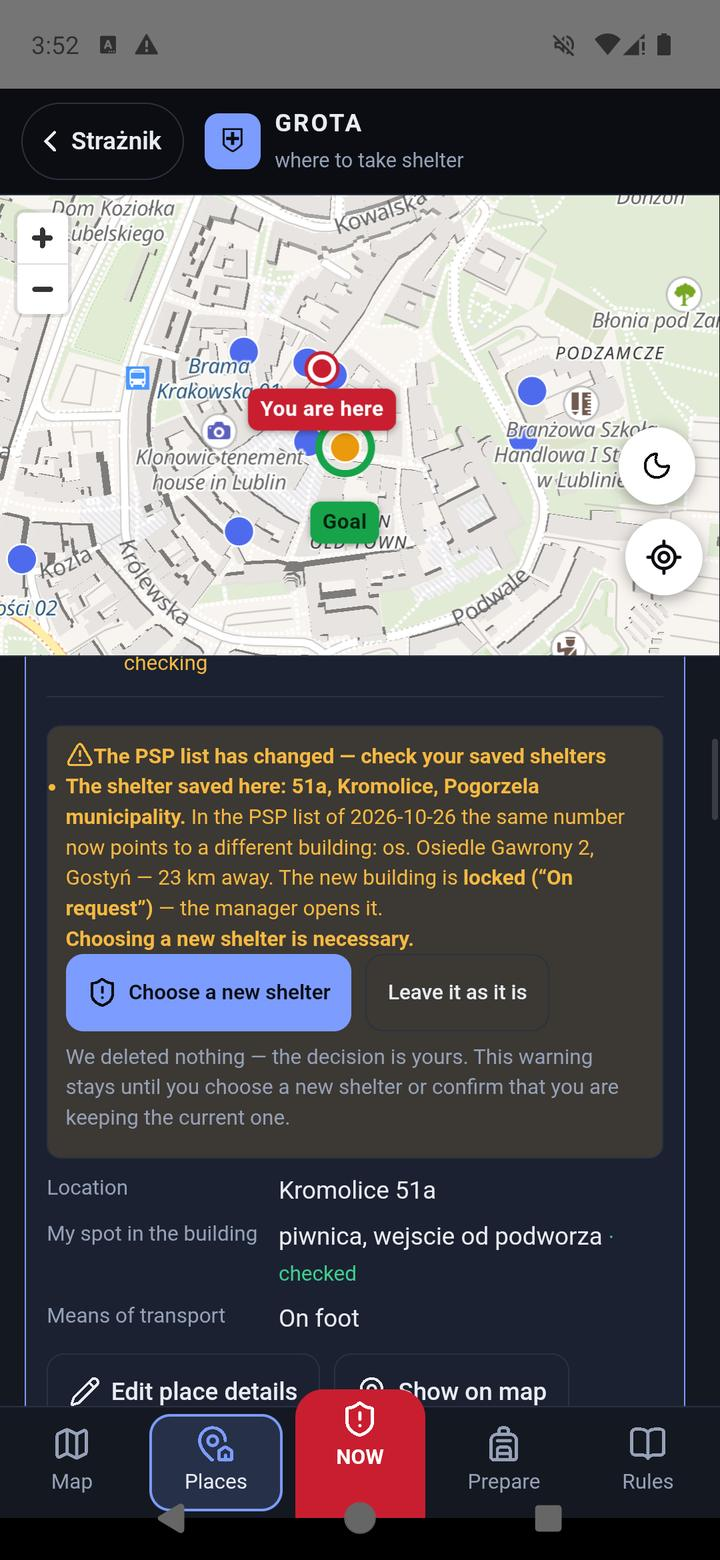
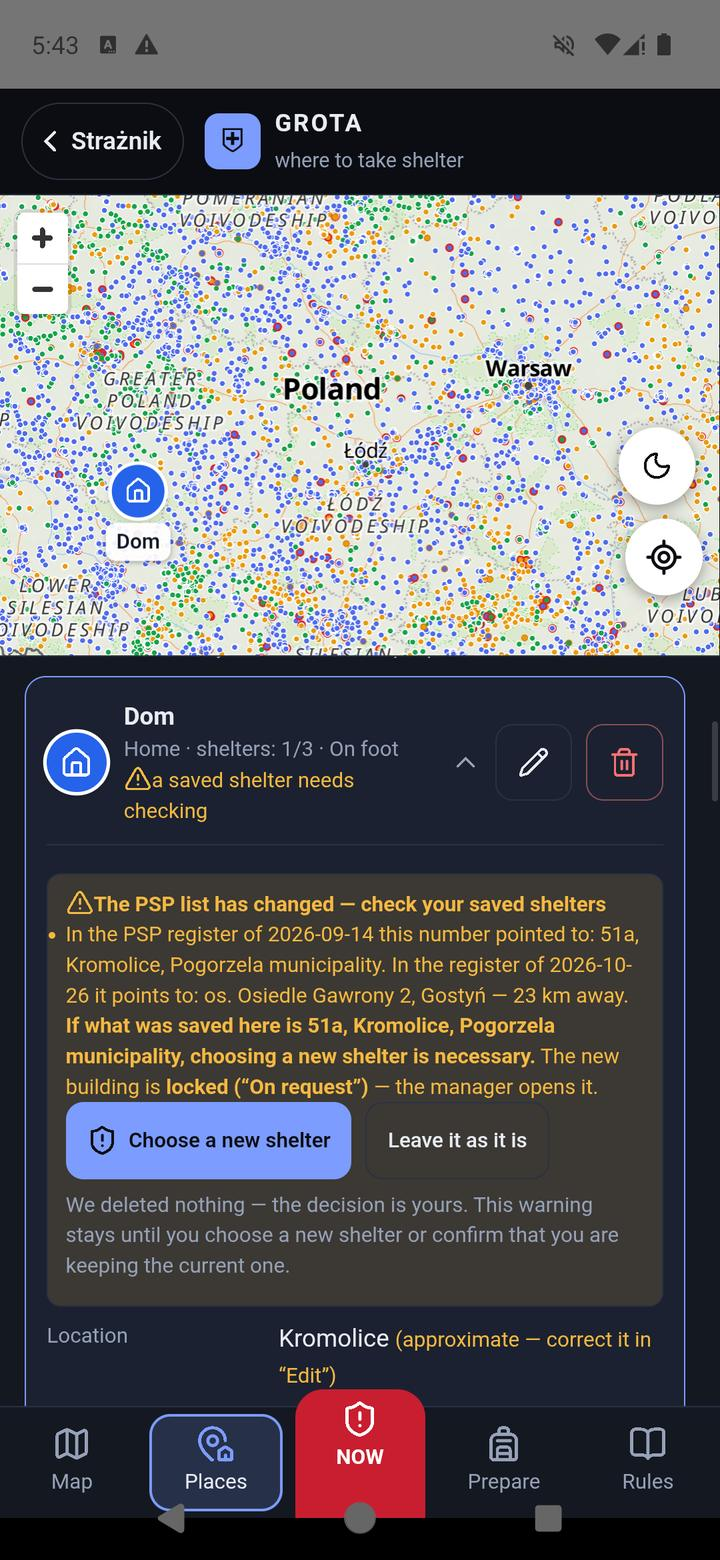
Instrukcja GROTY: ostrzezenie o zmianie wykazu z wydanego 1.8.02
g31-zmiana-wykazu* (PL, -en, -uk) zrobione z PODPISANEGO APK wydania
Straznik-1.8.02-131.apk (sha256 0d9769aa..., modul f48f4eb0c6) na emulatorze
Pixel 7 z Androidem 14, wm size 1080x2340, zmniejszone do 720x1560 JPEG.
Nic nie retuszowane.

Stan NIE byl wstrzykiwany - wydanie ma wylaczone debugowanie WebView, wiec nie
ma czym. Przeszedlem droge, ktora przechodzi czlowiek: czysta instalacja 1.8.00
(129), dodane miejsce "Dom" w Kromolicach przez wyszukiwarke adresow, zaznaczone
schronienie "51a, Kromolice" (221 m, w tamtym wykazie calodobowe), potem
adb install -r wydania 1.8.02, ktore zachowuje dane. Ostrzezenie pojawilo sie
samo. Wszystko w nim - stary adres, nowy, 23 km, zamkniecie "Na zadanie" i OBIE
daty - policzyla aplikacja z dwoch paczek.

Zrzuty pokazuja wariant WARUNKOWY ("jesli zapisano tu ..."), bo tak aplikacja
mowi, gdy nie wie, z ktorego wykazu pochodzi zapis - czyli kazdemu, kto
aktualizuje sie z wydania starszego niz 1.8.01. Wariant kategoryczny usuniety
bez zastepnika: wymaga zapisu z data starsza niz zmiana, a 1.8.01 jest pierwsza
wersja, ktora te date notuje, i wyszla z wykazem z 26.10 - zmierzone na wydanej
paczce: zapis z 1.8.01 nie daje ostrzezenia dla ZADNEGO z 76 przeniesien, zapis
bez daty daje warunkowe dla wszystkich 76. Kategoryczny stanie sie przypadkiem
normalnym dopiero przy nastepnym wykazie PSP i wtedy dorobie zrzut.

Rozdzial "Gdy zmieni sie wykaz PSP" dostal akapit o tej roznicy, w trzech
[…]

diff --git a/docs/grota-uk.html b/docs/grota-uk.html
@@ -25,11 +25,11 @@
   <div class="languages" aria-label="Мова посібника"><a href="grota.html" lang="pl" hreflang="pl">PL</a><a href="grota-en.html" lang="en" hreflang="en">EN</a><a href="grota-uk.html" lang="uk" aria-current="page">UA</a></div>
 </div></nav>
 <header class="hero"><div class="wrap hero-grid">
-<div><div class="eyebrow">Посібник GROTA · Strażnik 1.7.72 для Android</div>
+<div><div class="eyebrow">Посібник GROTA · Strażnik 1.8.02 для Android</div>
     <h1>GROTA — де сховатися</h1>
     <p class="lead">GROTA — частина застосунку Strażnik («Вартовий»). Під час повітряної тривоги вона показує <b>найближчі місця укриття</b> з публічного переліку Державної пожежної служби Польщі (PSP) і веде до них. Заздалегідь допомагає зберегти укриття біля дому, роботи й школи, завантажити мапу на випадок відсутності інтернету та підготуватися за польським урядовим «Порадником безпеки».</p>
     <div class="actions"><a class="button primary" href="https://play.google.com/store/apps/details?id=pl.straznik.app">↓ Strażnik у Google Play</a><a class="button" href="https://github.com/cukierrro/Straznik/releases/latest/download/Straznik.apk">↓ Завантажити Strażnik для Android</a><a class="button" href="en.html">Посібник Strażnik (англійською)</a></div>
-    <p class="fineprint">З версії 1.7.72 GROTA працює <b>українською</b>, англійською та польською (розділ 8). Сам Strażnik (поза GROTA) має польську й англійську мови, тому його кнопки подаємо польською, а в дужках — англійською. Знімки: 22 вересня 2026, емулятор, позиція в Старому місті Любліна; списки підготовки і вкладку Правила перезняли 26 вересня 2026 у випуску 1.7.80, мапу й фільтри — 19 жовтня 2026 у випуску 1.7.99, а фільтри, дату переліку PSP і два нові екрани (зміна переліку, пошук без інтернету) — 26 жовтня 2026; адреси з переліку PSP залишаються польською. GROTA працює в застосунках для Android та iPhone; у браузерній версії її немає. Торкніться знімка, щоб відкрити його повністю. Переклад посібника — машинний з перевіркою; якщо помітите помилку, напишіть нам.</p>
+    <p class="fineprint">З версії 1.7.72 GROTA працює <b>українською</b>, англійською та польською (розділ 8). Сам Strażnik (поза GROTA) має польську й англійську мови, тому його кнопки подаємо польською, а в дужках — англійською. Знімки: 22 вересня 2026, емулятор, позиція в Старому місті Любліна; списки підготовки і вкладку Правила перезняли 26 вересня 2026 у випуску 1.7.80, мапу й фільтри — 19 жовтня 2026 у випуску 1.7.99, а фільтри, дату переліку PSP і новий екран пошуку без інтернету — 26 жовтня 2026; попередження про зміну переліку зняте того ж дня на випуску 1.8.02, через справжнє оновлення зі старішої версії; адреси з переліку PSP залишаються польською. GROTA працює в застосунках для Android та iPhone; у браузерній версії її немає. Торкніться знімка, щоб відкрити його повністю. Переклад посібника — машинний з перевіркою; якщо помітите помилку, напишіть нам.</p>
   </div>
   <a class="shot-link" href="screens/grota/g04-teraz-propozycja-uk.jpg"><img src="screens/grota/g04-teraz-propozycja-uk.jpg" width="720" height="1560" alt="Екран ЗАРАЗ у GROTA: мапа Старого міста Любліна з маршрутом від «Ви тут» до мети, під нею картка «Найближче перевірене укриття — ul. Złota 2, Lublin» і велика зелена кнопка ВЕСТИ"></a>
 </div></header>
@@ -132,13 +132,14 @@
   <div class="shots"><figure><a class="shot-link" href="screens/grota/g16-miejsca-uk.jpg"><img loading="lazy" src="screens/grota/g16-miejsca-uk.jpg" width="720" height="1560" alt="Мої постійні місця: Дім — укриття 2/3, записані маршрути 1, пішки; Робота — укриття 0/3"></a><figcaption>Список місць.</figcaption></figure><figure><a class="shot-link" href="screens/grota/g20-dodaj-miejsce-uk.jpg"><img loading="lazy" src="screens/grota/g20-dodaj-miejsce-uk.jpg" width="720" height="1560" alt="Нове місце: Школа / університет, поля назви й адреси, Шукати, Моя позиція, Вказати на мапі"></a><figcaption>Додавання місця.</figcaption></figure><figure><a class="shot-link" href="screens/grota/g19-miejsce-wybor-uk.jpg"><img loading="lazy" src="screens/grota/g19-miejsce-wybor-uk.jpg" width="720" height="1560" alt="Виберіть укриття: фільтр і список найближчих пунктів із прапорцями"></a><figcaption>Вибір до трьох укриттів.</figcaption></figure><figure><a class="shot-link" href="screens/grota/g32-adres-imiennicy-uk.jpg"><img loading="lazy" src="screens/grota/g32-adres-imiennicy-uk.jpg" width="720" height="1560" alt="Пошук адреси без інтернету: повідомлення «Немає з'єднання з пошуком адрес. Показую населені пункти, збережені в застосунку, — позиція означає центр населеного пункту» і результати Olsztyn, місто, гміна Olsztyn · śląskie; Olsztyn, місто, гміна Olsztyn · warmińsko-mazurskie; Olsztynek, місто, гміна Olsztynek. Назви воєводств лишаються польськими, як у реєстрі"></a><figcaption>За повтореної назви додається воєводство.</figcaption></figure></div>
   <h3 id="zmiana-wykazu">Коли зміниться перелік PSP</h3>
   <p>Перелік пунктів укриття веде Державна пожежна служба і змінює його щотижня. Буває, що <b>під тим самим номером пункту з’являється інша будівля</b> — так сталося 26 жовтня 2026 року, коли 25 пунктів переписали на об’єкти в інших ґмінах, за 3–23 км, а 20 з них зачинили («На вимогу»). GROTA запам’ятовує ваші укриття за номером з переліку, тому після такої зміни ваш запис вказував би на інше місце.</p>
-  <p>Тому після оновлення застосунок перевіряє це сам і біля відповідного місця показує попередження: <b>що було збережено</b> (стара адреса), <b>що є тепер</b> (нова адреса й відстань), а якщо нова будівля зачинена — також і це. Він прямо каже, що <b>вибір нового місця укриття є обов’язковим</b>, і веде до списку вибору.</p>
+  <p>Тому після оновлення застосунок перевіряє це сам і біля відповідного місця показує попередження: <b>що було під цим номером раніше</b> (стара адреса й перелік, у якому вона ще була), <b>що є тепер</b> (нова адреса й відстань), а якщо нова будівля зачинена — також і це. Звідти веде до списку вибору.</p>
+  <p>Наскільки твердо це сказано, залежить від того, чи застосунок знає, з якого переліку походить ваш запис. Укриття, збережені до версії 1.8.01, такої дати не мають, тому повідомлення умовне: <b>«якщо тут було збережено саме цю адресу, вибір нового місця укриття є обов’язковим»</b> — адже пункт ви могли вибрати вже після зміни, і тоді для вас нічого не сталося. Від 1.8.01 дата запам’ятовується під час збереження, і застосунок каже прямо, що треба вибрати нове місце.</p>
   <ul>
     <li>Нічого не видаляється само — рішення за вами, а попередження лишається, доки ви не виберете нове укриття або не підтвердите <kbd>Залишаю як є</kbd>.</li>
     <li>Записаний маршрут до такого пункту застарів — GROTA ним не поведе і пояснить чому.</li>
     <li>Таке саме попередження побачите, коли пункт зникне з переліку (26 жовтня їх убуло 300).</li>
   </ul>
-  <div class="shots"><figure><a class="shot-link" href="screens/grota/g31-zmiana-wykazu-uk.jpg"><img loading="lazy" src="screens/grota/g31-zmiana-wykazu-uk.jpg" width="720" height="1560" alt="Попередження в подробицях місця: Перелік PSP змінився — перевірте збережені укриття. Збережене тут укриття: 51a, Kromolice, гміна Pogorzela; у переліку PSP від 2026-10-26 під тим самим номером тепер інша будівля: os. Osiedle Gawrony 2, Gostyń — за 23 км, будівля зачинена («На вимогу»). Кнопки Вибрати нове укриття і Залишаю як є"></a><figcaption>Попередження біля місця, якого стосується зміна.</figcaption></figure></div>
+  <div class="shots"><figure><a class="shot-link" href="screens/grota/g31-zmiana-wykazu-uk.jpg"><img loading="lazy" src="screens/grota/g31-zmiana-wykazu-uk.jpg" width="720" height="1560" alt="Картка місця Dom (укриття 1/3, пішки) з попередженням: Перелік PSP змінився — перевірте збережені укриття. У переліку PSP від 2026-09-14 під цим номером був 51a, Kromolice, гміна Pogorzela, а в переліку від 2026-10-26 тут os. Osiedle Gawrony 2, Gostyń — за 23 км; нова будівля зачинена («На вимогу»). Кнопки Вибрати нове укриття і Залишаю як є"></a><figcaption>Попередження після оновлення зі старішого випуску: два різні переліки й умовне «якщо тут збережено».</figcaption></figure></div>
   <h3>Подробиці, нотатки й редагування</h3>
   <p>У подробицях місця видно розташування, <b>«Моє місце в будівлі»</b> (наприклад «коридор на першому поверсі, без вікон» — де сховатися, якщо не встигнете вийти) і вибрані укриття. Біля кожного укриття є поле <b>«Як увійти — години, хто відчиняє, контакт управителя (ваша нотатка)»</b>. Його варто заповнити після розмови з управителем. Олівець відкриває редагування: назва, розташування, вид, ваше місце в будівлі з прапорцем <b>«Я перевірив це місце на місці»</b>, короткий список підготовки і спосіб пересування. Зміни зберігаються самі. Кошик видаляє місце, а ручка ⋮⋮ змінює порядок.</p>
   <div class="shots"><figure><a class="shot-link" href="screens/grota/g17-miejsce-szczegoly-uk.jpg"><img loading="lazy" src="screens/grota/g17-miejsce-szczegoly-uk.jpg" width="720" height="1560" alt="Подробиці місця Дім: розташування, моє місце в будівлі, перевірене; пересування пішки"></a><figcaption>Подробиці місця.</figcaption></figure><figure><a class="shot-link" href="screens/grota/g18-miejsce-schronienia-uk.jpg"><img loading="lazy" src="screens/grota/g18-miejsce-schronienia-uk.jpg" width="720" height="1560" alt="Мої укриття 2/3: ul. Złota 2 з нотаткою і записаним маршрутом"></a><figcaption>Укриття з нотаткою і записаним маршрутом.</figcaption></figure></div>

diff --git a/docs/grota.html b/docs/grota.html
@@ -25,11 +25,11 @@
   <div class="languages" aria-label="Język instrukcji"><a href="grota.html" lang="pl" aria-current="page">PL</a><a href="grota-en.html" lang="en" hreflang="en">EN</a><a href="grota-uk.html" lang="uk" hreflang="uk">UA</a></div>
 </div></nav>
 <header class="hero"><div class="wrap hero-grid">
-<div><div class="eyebrow">Instrukcja GROTY · Strażnik 1.7.72 na Androida</div>
+<div><div class="eyebrow">Instrukcja GROTY · Strażnik 1.8.02 na Androida</div>
     <h1>GROTA — gdzie się schronić</h1>
     <p class="lead">GROTA to część aplikacji Strażnik. Przy alarmie pokazuje <b>najbliższe miejsca schronienia</b> z publicznego wykazu Państwowej Straży Pożarnej i prowadzi do nich. Zawczasu pomaga zapisać schronienia przy domu, pracy i szkole, pobrać mapę na wypadek braku internetu i przygotować się według „Poradnika bezpieczeństwa”.</p>
     <div class="actions"><a class="button primary" href="https://play.google.com/store/apps/details?id=pl.straznik.app">↓ Strażnik w Google Play</a><a class="button" href="https://github.com/cukierrro/Straznik/releases/latest/download/Straznik.apk">↓ Pobierz Strażnika na Androida</a><a class="button" href="index.html">Instrukcja Strażnika</a></div>
-    <p class="fineprint">Zrzuty zrobiono 22 września 2026 w Strażniku 1.7.68, z pozycją na Starym Mieście w Lublinie; listy przygotowań i zakładkę Zasady odświeżono 26 września 2026 w wydaniu 1.7.80, mapę i filtry 19 października 2026 w wydaniu 1.7.99, a filtry, datę wykazu PSP i dwa nowe ekrany (zmiana wykazu, szukanie bez internetu) 26 października 2026. Adresy na zrzutach pochodzą z publicznego wykazu PSP. GROTA działa w aplikacji na Androida i na iPhone'a; <b>nie ma jej w wersji przeglądarkowej</b>. Od wersji 1.7.72 mówi po polsku, angielsku i ukraińsku (rozdział 8). Dotknij zdjęcia, aby otworzyć je w pełnym rozmiarze.</p>
+    <p class="fineprint">Zrzuty zrobiono 22 września 2026 w Strażniku 1.7.68, z pozycją na Starym Mieście w Lublinie; listy przygotowań i zakładkę Zasady odświeżono 26 września 2026 w wydaniu 1.7.80, mapę i filtry 19 października 2026 w wydaniu 1.7.99, a filtry, datę wykazu PSP i nowy ekran szukania bez internetu — 26 października 2026; ostrzeżenie o zmianie wykazu zrobiono tego samego dnia na wydaniu 1.8.02, przechodząc prawdziwą aktualizację ze starszej wersji. Adresy na zrzutach pochodzą z publicznego wykazu PSP. GROTA działa w aplikacji na Androida i na iPhone'a; <b>nie ma jej w wersji przeglądarkowej</b>. Od wersji 1.7.72 mówi po polsku, angielsku i ukraińsku (rozdział 8). Dotknij zdjęcia, aby otworzyć je w pełnym rozmiarze.</p>
   </div>
   <a class="shot-link" href="screens/grota/g04-teraz-propozycja.jpg"><img src="screens/grota/g04-teraz-propozycja.jpg" width="720" height="1560" alt="Ekran TERAZ w GROCIE: mapa Starego Miasta w Lublinie z trasą od „Tu jesteś” do celu, a pod nią karta „Najbliższe sprawdzone miejsce schronienia — ul. Złota 2, Lublin, 218 m, ok. 3 min trasą” i duży zielony przycisk PROWADŹ"></a>
 </div></header>
@@ -132,13 +132,14 @@
   <div class="shots"><figure><a class="shot-link" href="screens/grota/g16-miejsca.jpg"><img loading="lazy" src="screens/grota/g16-miejsca.jpg" width="720" height="1560" alt="Lista Moje stałe miejsca: Dom — schronienia 2/3, nagrane trasy 1, Pieszo; Praca — schronienia 0/3"></a><figcaption>Lista miejsc.</figcaption></figure><figure><a class="shot-link" href="screens/grota/g20-dodaj-miejsce.jpg"><img loading="lazy" src="screens/grota/g20-dodaj-miejsce.jpg" width="720" height="1560" alt="Nowe miejsce: Szkoła / uczelnia, pola Nazwa i Adres miejsca, przyciski Szukaj, Moja pozycja, Wskaż na mapie"></a><figcaption>Dodawanie miejsca.</figcaption></figure><figure><a class="shot-link" href="screens/grota/g19-miejsce-wybor.jpg"><img loading="lazy" src="screens/grota/g19-miejsce-wybor.jpg" width="720" height="1560" alt="Wybierz miejsca schronienia: filtr Pokaż punkty i lista najbliższych punktów z polem wyboru"></a><figcaption>Wybór do trzech schronień.</figcaption></figure><figure><a class="shot-link" href="screens/grota/g32-adres-imiennicy.jpg"><img loading="lazy" src="screens/grota/g32-adres-imiennicy.jpg" width="720" height="1560" alt="Szukanie adresu bez internetu: komunikat „Brak połączenia z wyszukiwarką adresów. Pokazuję miejscowości zapisane w aplikacji — pozycja to środek miejscowości” i wyniki Olsztyn, miasto, gm. Olsztyn · śląskie; Olsztyn, miasto, gm. Olsztyn · warmińsko-mazurskie; Olsztynek, miasto, gm. Olsztynek"></a><figcaption>Przy powtórzonej nazwie dochodzi województwo.</figcaption></figure></div>
   <h3 id="zmiana-wykazu">Gdy zmieni się wykaz PSP</h3>
   <p>Wykaz punktów schronienia prowadzi Państwowa Straż Pożarna i zmienia go co tydzień. Zdarza się, że <b>pod tym samym numerem punktu pojawia się inny budynek</b> — tak było 26 października 2026, gdy 25 punktów przepisano na obiekty w innych gminach, oddalone od 3 do 23 km, a 20 z nich zamknięto („Na żądanie”). GROTA zapamiętuje Twoje schronienia po numerze z wykazu, więc po takiej zmianie Twój zapis wskazywałby inne miejsce.</p>
-  <p>Dlatego po aktualizacji aplikacja sama to sprawdza i przy miejscu, którego dotyczy, pokazuje ostrzeżenie: <b>co było zapisane</b> (stary adres), <b>co jest teraz</b> (nowy adres i odległość), a jeśli nowy obiekt jest zamknięty — także to. Mówi wprost, że <b>wybór nowego miejsca schronienia jest konieczny</b>, i prowadzi do listy wyboru.</p>
+  <p>Dlatego po aktualizacji aplikacja sama to sprawdza i przy miejscu, którego dotyczy, pokazuje ostrzeżenie: <b>co było pod tym numerem wcześniej</b> (stary adres i wykaz, w którym jeszcze tam stał), <b>co jest teraz</b> (nowy adres i odległość), a jeśli nowy obiekt jest zamknięty — także to. Stamtąd prowadzi do listy wyboru.</p>
+  <p>Jak mocno jest to postawione, zależy od tego, czy aplikacja wie, z którego wykazu pochodzi Twój zapis. Schronienia zapisane przed wersją 1.8.01 tej daty nie mają, więc komunikat jest warunkowy: <b>„jeśli zapisano tu ten adres, wybór nowego miejsca schronienia jest konieczny”</b> — bo punkt mógł zostać wybrany już po zmianie i wtedy nic się dla Ciebie nie wydarzyło. Od 1.8.01 data jest zapamiętywana przy zapisie i aplikacja mówi wprost, że wybór nowego miejsca jest konieczny.</p>
   <ul>
     <li>Nic nie jest usuwane samo — decyzja należy do Ciebie, a ostrzeżenie zostaje, dopóki nie wybierzesz nowego schronienia albo nie potwierdzisz <kbd>Zostawiam jak jest</kbd>.</li>
     <li>Nagrana trasa do takiego punktu jest nieaktualna — GROTA nią nie poprowadzi i powie dlaczego.</li>
     <li>To samo ostrzeżenie zobaczysz, gdy punkt zniknie z wykazu (26 października ubyło ich 300).</li>
   </ul>
-  <div class="shots"><figure><a class="shot-link" href="screens/grota/g31-zmiana-wykazu.jpg"><img loading="lazy" src="screens/grota/g31-zmiana-wykazu.jpg" width="720" height="1560" alt="Ostrzeżenie w szczegółach miejsca: Zmienił się wykaz PSP — sprawdź zapisane schronienia. Zapisane tu schronienie: 51a, Kromolice, gm. Pogorzela; w wykazie PSP z 2026-10-26 pod tym samym numerem jest os. Osiedle Gawrony 2, Gostyń — 23 km dalej, obiekt zamknięty („Na żądanie”). Przyciski Wybierz nowe schronienie i Zostawiam jak jest"></a><figcaption>Ostrzeżenie przy miejscu, którego zmiana dotyczy.</figcaption></figure></div>
+  <div class="shots"><figure><a class="shot-link" href="screens/grota/g31-zmiana-wykazu.jpg"><img loading="lazy" src="screens/grota/g31-zmiana-wykazu.jpg" width="720" height="1560" alt="Karta miejsca Dom (schronienia 1/3, pieszo) z ostrzeżeniem: Zmienił się wykaz PSP — sprawdź zapisane schronienia. W wykazie PSP z 2026-09-14 pod tym numerem był 51a, Kromolice, gm. Pogorzela, a w wykazie z 2026-10-26 jest tu os. Osiedle Gawrony 2, Gostyń — 23 km dalej; nowy obiekt jest zamknięty („Na żądanie”). Przyciski Wybierz nowe schronienie i Zostawiam jak jest"></a><figcaption>Ostrzeżenie po aktualizacji ze starszego wydania: dwa różne wykazy i warunkowe „jeśli zapisano tu”.</figcaption></figure></div>
   <h3>Szczegóły, notatki i edycja</h3>
   <p>W szczegółach miejsca widać położenie, <b>„Moje miejsce w budynku”</b> (np. „korytarz na parterze, bez okien” — gdzie się schować, gdy nie zdążysz wyjść) i wybrane schronienia. Przy każdym schronieniu jest pole <b>„Jak wejść — godziny, kto otwiera, kontakt do zarządcy (Twoja notatka)”</b>. Warto je wypełnić po rozmowie z zarządcą. Ołówek otwiera edycję: nazwa, położenie, rodzaj, miejsce w budynku z polem „Sprawdziłem to miejsce na miejscu”, skrócona lista kontrolna i środek transportu. Zmiany zapisują się same („✓ Zapisano”). Kosz usuwa miejsce, a uchwyt ⋮⋮ zmienia kolejność.</p>
   <div class="shots"><figure><a class="shot-link" href="screens/grota/g17-miejsce-szczegoly.jpg"><img loading="lazy" src="screens/grota/g17-miejsce-szczegoly.jpg" width="720" height="1560" alt="Szczegóły miejsca Dom: położenie Lublin, ul. Królewska 4, moje miejsce w budynku korytarz na parterze bez okien, sprawdzone, środek transportu Pieszo"></a><figcaption>Szczegóły miejsca.</figcaption></figure><figure><a class="shot-link" href="screens/grota/g18-miejsce-schronienia.jpg"><img loading="lazy" src="screens/grota/g18-miejsce-schronienia.jpg" width="720" height="1560" alt="Moje miejsca schronienia 2/3: ul. Złota 2 z notatką Czynne 8–20, klucz u portiera i nagraną trasą 240 m, 3 min 25 s"></a><figcaption>Schronienie z notatką i nagraną trasą.</figcaption></figure></div>
@@ -222,7 +223,7 @@
   <h3>Zmieniłem adres domu i zniknęły schronienia.</h3>
   <p>To celowe: po zmianie adresu o więcej niż 3 km GROTA pyta, czy usunąć schronienia z dawnej okolicy.</p>
   <h3>Mam nowy telefon — gdzie moje miejsca?</h3>
-  <p>Miejsca, notatki i trasy są tylko w telefonie, na którym je zapisałeś. Na nowym trzeba je dodać ponownie.</p>
+  <p>Miejsca, notatki i trasy są tylko w telefonie, na którym je zapisano. Na nowym trzeba je dodać ponownie.</p>
   <h3>Jak usunąć wszystko?</h3>
   <p>Mapę offline usuwasz w <kbd>Przygotuj</kbd> → <kbd>Usuń</kbd>, miejsca — koszem w <kbd>Miejsca</kbd>, umówione miejsce — <kbd>Usuń</kbd>. Całość: Ustawienia Androida → Aplikacje → Strażnik → Pamięć → Wyczyść dane (to czyści też ustawienia Strażnika, np. województwo do alarmów).</p>
   <h3>Kiedy GROTA będzie na iPhonie?</h3>

diff --git a/docs/grota-en.html b/docs/grota-en.html
@@ -25,11 +25,11 @@
   <div class="languages" aria-label="Guide language"><a href="grota.html" lang="pl" hreflang="pl">PL</a><a href="grota-en.html" lang="en" aria-current="page">EN</a><a href="grota-uk.html" lang="uk" hreflang="uk">UA</a></div>
 </div></nav>
 <header class="hero"><div class="wrap hero-grid">
-<div><div class="eyebrow">GROTA guide · Strażnik 1.7.72 for Android</div>
+<div><div class="eyebrow">GROTA guide · Strażnik 1.8.02 for Android</div>
     <h1>GROTA — where to take shelter</h1>
     <p class="lead">GROTA is part of the Strażnik app. During an alert it shows the <b>nearest shelter points</b> from the public list of Poland's State Fire Service (PSP) and guides you there. In advance, it helps you save shelters near your home, work and school, download a map for when there is no internet, and prepare following the Polish government's Safety Guide.</p>
     <div class="actions"><a class="button primary" href="https://play.google.com/store/apps/details?id=pl.straznik.app">↓ Strażnik on Google Play</a><a class="button" href="https://github.com/cukierrro/Straznik/releases/latest/download/Straznik.apk">↓ Get Strażnik for Android</a><a class="button" href="en.html">Strażnik user guide</a></div>
-    <p class="fineprint">Since version 1.7.72 GROTA speaks <b>English, Ukrainian and Polish</b> (section 8). Screenshots: 22 September 2026, emulator, position in Lublin's Old Town; the preparation checklists and the Rules tab were retaken on 26 September 2026 in release 1.7.80, the map and filters on 19 October 2026 in release 1.7.99, and the filters, the PSP list date and two new screens (the list change, searching without the internet) on 26 October 2026; addresses come from the public PSP list and stay in Polish. GROTA works in the Android and iPhone apps; it is <b>not part of the browser version</b>. Tap a screenshot to open it full size.</p>
+    <p class="fineprint">Since version 1.7.72 GROTA speaks <b>English, Ukrainian and Polish</b> (section 8). Screenshots: 22 September 2026, emulator, position in Lublin's Old Town; the preparation checklists and the Rules tab were retaken on 26 September 2026 in release 1.7.80, the map and filters on 19 October 2026 in release 1.7.99, and the filters, the PSP list date and a new screen for searching without the internet on 26 October 2026; the register-change warning was taken the same day on release 1.8.02, by walking a real update from an older version; addresses come from the public PSP list and stay in Polish. GROTA works in the Android and iPhone apps; it is <b>not part of the browser version</b>. Tap a screenshot to open it full size.</p>
   </div>
   <a class="shot-link" href="screens/grota/g04-teraz-propozycja-en.jpg"><img src="screens/grota/g04-teraz-propozycja-en.jpg" width="720" height="1560" alt="GROTA's NOW screen: a map of Lublin's Old Town with a route from “You are here” to the goal, and below it the card “Nearest verified shelter — ul. Złota 2, Lublin” with a big green NAVIGATE button"></a>
 </div></header>
@@ -132,13 +132,14 @@
   <div class="shots"><figure><a class="shot-link" href="screens/grota/g16-miejsca-en.jpg"><img loading="lazy" src="screens/grota/g16-miejsca-en.jpg" width="720" height="1560" alt="My regular places: Home — shelters 2/3, recorded routes 1, on foot; Work — shelters 0/3"></a><figcaption>The list of places.</figcaption></figure><figure><a class="shot-link" href="screens/grota/g20-dodaj-miejsce-en.jpg"><img loading="lazy" src="screens/grota/g20-dodaj-miejsce-en.jpg" width="720" height="1560" alt="New place: School / university, Name and address fields, Search, My position, Pick on the map"></a><figcaption>Adding a place.</figcaption></figure><figure><a class="shot-link" href="screens/grota/g19-miejsce-wybor-en.jpg"><img loading="lazy" src="screens/grota/g19-miejsce-wybor-en.jpg" width="720" height="1560" alt="Choose shelters: filter and the list of nearest points with tick boxes"></a><figcaption>Choosing up to three shelters.</figcaption></figure><figure><a class="shot-link" href="screens/grota/g32-adres-imiennicy-en.jpg"><img loading="lazy" src="screens/grota/g32-adres-imiennicy-en.jpg" width="720" height="1560" alt="Address search without the internet: the message “No connection to the address search. Showing towns stored in the app — the position is the town centre” and the results Olsztyn, town, Olsztyn municipality · śląskie; Olsztyn, town, Olsztyn municipality · warmińsko-mazurskie; Olsztynek, town, Olsztynek municipality. The province names stay in Polish, as in the register"></a><figcaption>A repeated name gets its province.</figcaption></figure></div>
   <h3 id="zmiana-wykazu">When the PSP list changes</h3>
   <p>The list of shelter points is kept by the State Fire Service and changes every week. Sometimes <b>the same point number starts pointing to a different building</b> — that is what happened on 26 October 2026, when 25 points were rewritten onto buildings in other communes, from 3 to 23 km away, and 20 of them were locked (“On request”). GROTA remembers your shelters by their number in the list, so after such a change your saved entry would point somewhere else.</p>
-  <p>That is why, after an update, the app checks this itself and shows a warning at the place it concerns: <b>what you had saved</b> (the old address), <b>what is there now</b> (the new address and the distance) and, if the new building is locked, that too. It says plainly that <b>choosing a new shelter is necessary</b> and takes you to the list.</p>
+  <p>That is why, after an update, the app checks this itself and shows a warning at the place it concerns: <b>what this number pointed to before</b> (the old address and the register that still had it), <b>what is there now</b> (the new address and the distance) and, if the new building is locked, that too. From there it takes you to the list.</p>
+  <p>How firmly it is put depends on whether the app knows which register your save came from. Shelters saved before version 1.8.01 carry no such date, so the message is conditional: <b>“if what you saved here was that address, choosing a new shelter is necessary”</b> — you may just as well have picked the point after the change, and then nothing happened to you. From 1.8.01 the date is recorded when you save, and the app says plainly that a new shelter must be chosen.</p>
   <ul>
     <li>Nothing is deleted on its own — the decision is yours, and the warning stays until you choose a new shelter or confirm <kbd>Leave it as it is</kbd>.</li>
     <li>A route you recorded to such a point is out of date — GROTA will not guide you along it and will say why.</li>
     <li>You will see the same warning when a point disappears from the list (300 were removed on 26 October).</li>
   </ul>
-  <div class="shots"><figure><a class="shot-link" href="screens/grota/g31-zmiana-wykazu-en.jpg"><img loading="lazy" src="screens/grota/g31-zmiana-wykazu-en.jpg" width="720" height="1560" alt="A warning in the place details: The PSP list has changed — check your saved shelters. The shelter saved here: 51a, Kromolice, Pogorzela municipality; in the PSP list of 2026-10-26 the same number now points to os. Osiedle Gawrony 2, Gostyń — 23 km away, a locked building (“On request”). Buttons Choose a new shelter and Leave it as it is"></a><figcaption>The warning at the place it concerns.</figcaption></figure></div>
+  <div class="shots"><figure><a class="shot-link" href="screens/grota/g31-zmiana-wykazu-en.jpg"><img loading="lazy" src="screens/grota/g31-zmiana-wykazu-en.jpg" width="720" height="1560" alt="The place card Dom (shelters 1/3, on foot) with the warning: The PSP list has changed — check your saved shelters. In the PSP register of 2026-09-14 this number pointed to 51a, Kromolice, Pogorzela municipality, and in the register of 2026-10-26 it points to os. Osiedle Gawrony 2, Gostyń — 23 km away; the new building is locked (“On request”). Buttons Choose a new shelter and Leave it as it is"></a><figcaption>The warning after updating from an older release: two different registers and the conditional “if what was saved here”.</figcaption></figure></div>
   <h3>Details, notes and editing</h3>
   <p>A place's details show its location, <b>“My spot in the building”</b> (e.g. “ground-floor corridor, no windows” — where to hide if you can't get out in time) and the chosen shelters. Each shelter has a field <b>“How to get in — hours, who opens it, building manager's contact (your note)”</b>. It is worth filling in after talking to the manager. The pencil opens editing: name, location, type, your spot in the building with a tick <b>“I have checked this spot on site”</b>, a short checklist and the means of transport. Changes save themselves. The bin deletes a place, and the ⋮⋮ handle changes the order.</p>
   <div class="shots"><figure><a class="shot-link" href="screens/grota/g17-miejsce-szczegoly-en.jpg"><img loading="lazy" src="screens/grota/g17-miejsce-szczegoly-en.jpg" width="720" height="1560" alt="Details of the place Home: location, my spot in the building, verified; transport on foot"></a><figcaption>Place details.</figcaption></figure><figure><a class="shot-link" href="screens/grota/g18-miejsce-schronienia-en.jpg"><img loading="lazy" src="screens/grota/g18-miejsce-schronienia-en.jpg" width="720" height="1560" alt="My shelters 2/3: ul. Złota 2 with a note and a recorded route"></a><figcaption>A shelter with a note and a recorded route.</figcaption></figure></div>

diff --git a/docs/screens/README.md b/docs/screens/README.md
@@ -86,26 +86,52 @@ on it matched the shipped pack, but the look predated the 14 October contrast an
 This set is the first one built with the assets actually synchronised, and it replaces those frames.
 
 The GROTA captures `g13-mapa-filtry*` and `g29-zasady-dane*` were retaken, and
-`g31-zmiana-wykazu*` and `g32-adres-imiennicy*` are new (Polish, `-en`, `-uk`), on
+`g32-adres-imiennicy*` is new (Polish, `-en`, `-uk`), on
 26 October 2026 between 15:28 and 16:03 Europe/Warsaw. They come from a debug build of the
-`grota-zmiana-wykazu` branch — the same GROTA module as release 1.8.01 (module 66b55272b6, shelter pack from the PSP register
-of 26 October 2026, 87,835 points) on the Pixel 7 emulator with Android 14, with the screen
+`grota-zmiana-wykazu` branch (module 66b55272b6, shelter pack from the PSP register
+of 26 October 2026, 87,835 points). That module differs from the one in release 1.8.02 by one
+sentence of the register-change warning, which none of these three screens shows, and by
+nothing else; the counts, the register date and the offline search are the same code. They were
+taken on the Pixel 7 emulator with Android 14, with the screen
 set to `wm size 1080x2340` so the frames match the rest of the GROTA set, then downscaled to
 720 x 1560 JPEG. Nothing in them is retouched. The position is the same fake GPS fix in
 Lublin's Old Town as the earlier sets. `g13-*` shows the counts the pack really holds
 (87 835 points, 19 591 / 7 578 / 60 666 by access, 85 668 / 897 / 1 270 by location
 certainty), and `g29-*` the register date that goes with them.
 
-`g31-zmiana-wykazu*` shows the warning that the register changed. To produce it, a test place
-"Dom" in Kromolice was written to the app's own storage with the shelter `OZO-852EACB93576`
-saved from the register of 14 September 2026 — the point that PSP has since rewritten to a
-building in Gostyń. Everything in the warning (the old address, the new one, the 23 km and
-the "On request" access) is what the app computed from the two packs; only the saved place is
-made up, and its note "piwnica, wejscie od podworza" stays Polish in the English and Ukrainian
-frames because it is text a user types, not an interface string. `g32-adres-imiennicy*` was
-taken with the emulator's Wi-Fi switched off, so the offline town list really is what answers;
-the province names in the results stay Polish in all three languages, as they are in the
-register. Both new screens first appear in release 1.8.01.
+`g32-adres-imiennicy*` was taken with the emulator's Wi-Fi switched off, so the offline town
+list really is what answers; the province names in the results stay Polish in all three
+languages, as they are in the register. The screen first appears in release 1.8.01.
+
+`g31-zmiana-wykazu*` (Polish, `-en`, `-uk`) was taken on 26 October 2026 between 17:37 and
+18:46 Europe/Warsaw from the signed release APK `Straznik-1.8.02-131.apk` (sha256 0d9769aa…,
+module f48f4eb0c6, same shelter pack), on the Pixel 7 emulator with Android 14 at
+`wm size 1080x2340`, then downscaled to 720 x 1560 JPEG. Nothing in it is retouched.
+
+The state it shows was not written into the app's storage: it was produced by walking the
+update a real person walks. Release 1.8.00 (129) was installed clean, a place "Dom" was added
+in Kromolice through the address search, the shelter "51a, Kromolice" (221 m, open 24 hours in
+that register) was ticked, and then 1.8.02 was installed over it with `adb install -r`, which
+keeps the app's data. The warning appeared by itself. Everything in it — the old address, the
+new one, the 23 km, the "On request" lock and both dates — is what the app computed from the
+two packs.
+
+The frames show the conditional wording ("if what was saved here is …"), which is what the app
+says when it does not know which register a save came from. That is every save made before
+1.8.01, so it is what anyone updating from an older release sees. The unconditional wording
+("The shelter saved here: …") needs a save whose recorded register date is older than the
+change; 1.8.01 is the first version that records such a date and it shipped with the register
+of 26 October, so measured against this pack a 1.8.01 save produces no warning for any of its
+76 rewritten points, while a save carrying no date produces the conditional one for all 76.
+The unconditional wording becomes the ordinary case with the next PSP register, and there is
+deliberately no screenshot of it until a device can reach it honestly.
+
+An earlier version of these frames, taken on 26 October from a debug build with a test place
+written straight into the app's storage, was withdrawn: it showed the unconditional wording,
+and the sentence naming the old register carried the date of the change instead of the register
+that still held the old address, so the same date stood on both sides of it. That defect was in
+release 1.8.01 and is fixed in 1.8.02; finding it on screen is why these frames were retaken
+from the release build.
 
 There is deliberately no screenshot for "When the map gets old": the offline map packs have not
 been rebuilt since that code was written, so no device can honestly show the "There is a newer
